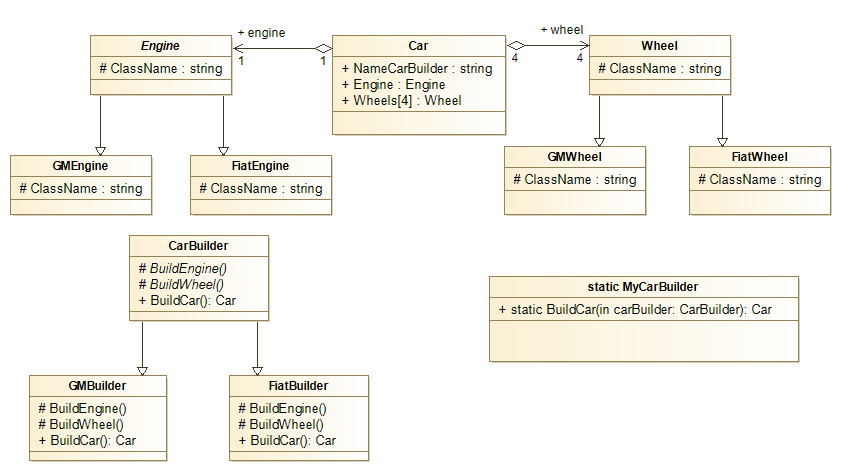
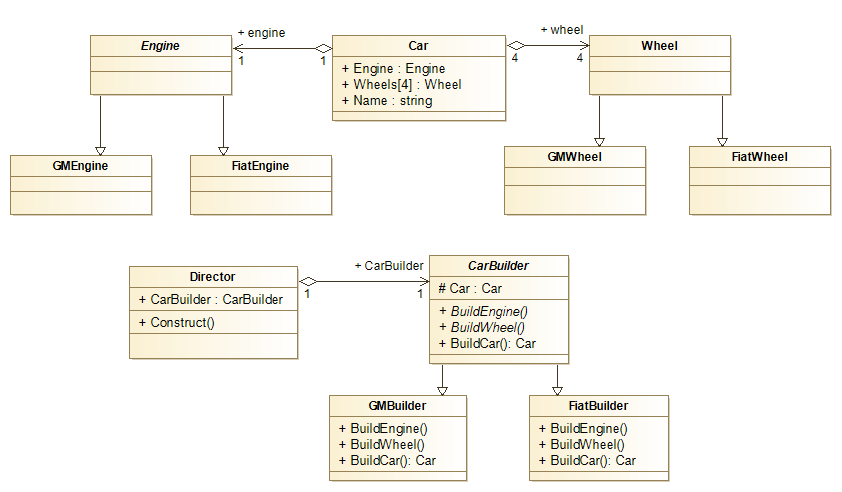
Builder Refactored

diff --git a/Creational/Object/Builder/FiatBuilder.cs b/Creational/Object/Builder/FiatBuilder.cs
@@ -2,36 +2,25 @@ namespace Builder
 {
 	public class FiatBuilder : CarBuilder
 	{
-		public FiatBuilder()
-		{
-			base.ClassName = "FiatBuilder".ToString();
-		}
 
-		protected override Engine BuildEngine()
+		public override void BuildEngine()
 		{
-			return new FiatEngine();
-		}
+            Car!.Engine = new FiatEngine();
+        }
 
-		protected override Wheel BuildWheel()
+		public override void BuildWheel()
 		{
-			return new FiatWheel();
-		}
+            Car!.Wheels[0] = new FiatWheel();
+			Car!.Wheels[1] = new FiatWheel();
+			Car!.Wheels[2] = new FiatWheel();
+			Car!.Wheels[3] = new FiatWheel();
+        }
 
 		public override Car BuildCar()
 		{
-			Car car = new Car();
-			car.NameCarBuilder = ToString();
-			car.Engine = BuildEngine();
-			car.Wheels[0] = BuildWheel();
-			car.Wheels[1] = BuildWheel();
-			car.Wheels[2] = BuildWheel();
-			car.Wheels[3] = BuildWheel();
-			return car;
+            Car!.Name = "Fiat";
+            return Car!;
 		}
 
-		public override string? ToString()
-		{
-			return base.ClassName;
-		}
 	}
 }

diff --git a/Creational/Object/Builder/GMBuilder.cs b/Creational/Object/Builder/GMBuilder.cs
@@ -2,36 +2,25 @@ namespace Builder
 {
 	public class GMBuilder : CarBuilder
 	{
-		public GMBuilder()
-		{
-			base.ClassName = "GMBuilder".ToString();
-		}
 
-		protected override Engine BuildEngine()
+		public override void BuildEngine()
 		{
-			return new GMEngine();
-		}
+            Car!.Engine = new GMEngine();
+        }
 
-		protected override Wheel BuildWheel()
+		public override void BuildWheel()
 		{
-			return new GMWheel();
+			Car!.Wheels[0] = new GMWheel();
+			Car!.Wheels[1] = new GMWheel();
+			Car!.Wheels[2] = new GMWheel();
+			Car!.Wheels[3] = new GMWheel();
 		}
 
 		public override Car BuildCar()
 		{
-			Car car = new Car();
-			car.NameCarBuilder = ToString();
-			car.Engine = BuildEngine();
-			car.Wheels[0] = BuildWheel();
-			car.Wheels[1] = BuildWheel();
-			car.Wheels[2] = BuildWheel();
-			car.Wheels[3] = BuildWheel();
-			return car;
+			Car!.Name = "GM";
+			return Car!;
 		}
 
-		public override string? ToString()
-		{
-			return base.ClassName;
-		}
 	}
 }

diff --git a/Creational/Object/Builder/Program.cs b/Creational/Object/Builder/Program.cs
@@ -1,8 +1,19 @@
 using Builder;
 
+Director director;
+Car car;
+
 Console.WriteLine("Testing the Builder Design Pattern");
-Car car = MyCarBuilder.BuildCar(new FiatBuilder());
-Console.WriteLine(car.NameCarBuilder);
-Console.WriteLine(car.Engine);
-Console.WriteLine(car.Wheels[0]);
+
+FiatBuilder fiatBuilder = new FiatBuilder();
+director = new(fiatBuilder);
+director.Construct();
+car = fiatBuilder.BuildCar();
+Console.WriteLine(car.Name);
+
+GMBuilder gmBuilder = new GMBuilder();
+director = new(gmBuilder);
+director.Construct();
+car = gmBuilder.BuildCar();
+Console.WriteLine(car.Name);
 

diff --git a/Creational/Object/Builder/Director.cs b/Creational/Object/Builder/Director.cs
@@ -1,0 +1,18 @@
+namespace Builder
+{
+    public class Director
+    {
+        public CarBuilder? CarBuilder { get; set; }
+
+        public Director(CarBuilder carBuilder)
+        {
+            this.CarBuilder = carBuilder;
+        }
+
+        public void Construct()
+        {
+            CarBuilder?.BuildEngine();
+            CarBuilder?.BuildWheel();
+        }
+    }
+}

diff --git a/Creational/Object/Builder/CarBuilder.cs b/Creational/Object/Builder/CarBuilder.cs
@@ -2,11 +2,11 @@ namespace Builder
 {
 	public abstract class CarBuilder
 	{
-		protected string? ClassName { get; set; }
+		protected Car? Car = new Car();
 
-		protected abstract Engine BuildEngine();
+        public abstract void BuildEngine();
 
-		protected abstract Wheel BuildWheel();
+		public abstract void BuildWheel();
 
 		public abstract Car BuildCar();
 	}

diff --git a/Creational/Object/Builder/Car.cs b/Creational/Object/Builder/Car.cs
@@ -2,10 +2,8 @@ namespace Builder
 {
 	public class Car
 	{
-		public Wheel[] Wheels = new Wheel[4];
-
-		public string? NameCarBuilder { get; set; }
-
+		public string? Name { get; set; }
+        public Wheel[] Wheels = new Wheel[4];
 		public Engine? Engine { get; set; }
 	}
 }

diff --git a/Creational/Object/Builder/FiatEngine.cs b/Creational/Object/Builder/FiatEngine.cs
@@ -2,14 +2,6 @@ namespace Builder
 {
 	public class FiatEngine : Engine
 	{
-		public FiatEngine()
-		{
-			base.ClassName = "FiatEngine".ToString();
-		}
 
-		public override string? ToString()
-		{
-			return base.ClassName;
-		}
 	}
 }

diff --git a/Creational/Object/Builder/FiatWheel.cs b/Creational/Object/Builder/FiatWheel.cs
@@ -2,14 +2,5 @@ namespace Builder
 {
 	public class FiatWheel : Wheel
 	{
-		public FiatWheel()
-		{
-			base.ClassName = "FiatWheel".ToString();
-		}
-
-		public override string? ToString()
-		{
-			return base.ClassName;
-		}
 	}
 }

diff --git a/Creational/Object/Builder/GMEngine.cs b/Creational/Object/Builder/GMEngine.cs
@@ -2,14 +2,6 @@ namespace Builder
 {
 	public class GMEngine : Engine
 	{
-		public GMEngine()
-		{
-			base.ClassName = "GMEngine".ToString();
-		}
 
-		public override string? ToString()
-		{
-			return base.ClassName;
-		}
 	}
 }

diff --git a/Creational/Object/Builder/GMWheel.cs b/Creational/Object/Builder/GMWheel.cs
@@ -2,14 +2,6 @@ namespace Builder
 {
 	public class GMWheel : Wheel
 	{
-		public GMWheel()
-		{
-			base.ClassName = "GMWheel".ToString();
-		}
 
-		public override string? ToString()
-		{
-			return base.ClassName;
-		}
 	}
 }

diff --git a/Creational/Object/Builder/Engine.cs b/Creational/Object/Builder/Engine.cs
@@ -2,6 +2,6 @@ namespace Builder
 {
 	public abstract class Engine
 	{
-		protected string? ClassName { get; set; }
+		
 	}
 }

diff --git a/Creational/Object/Builder/Wheel.cs b/Creational/Object/Builder/Wheel.cs
@@ -2,6 +2,6 @@ namespace Builder
 {
 	public abstract class Wheel
 	{
-		protected string? ClassName { get; set; }
+
 	}
 }
